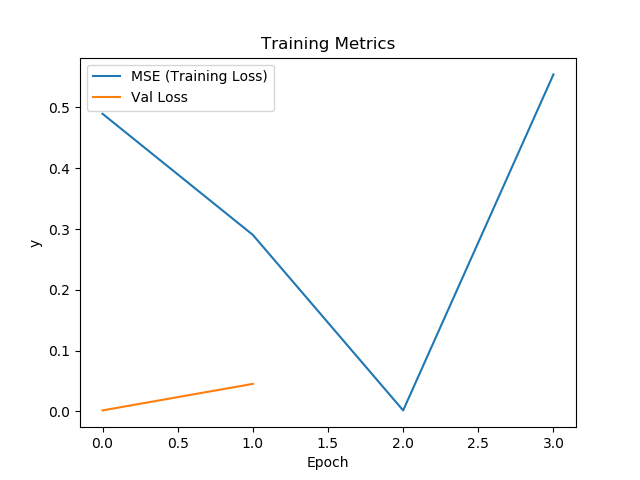
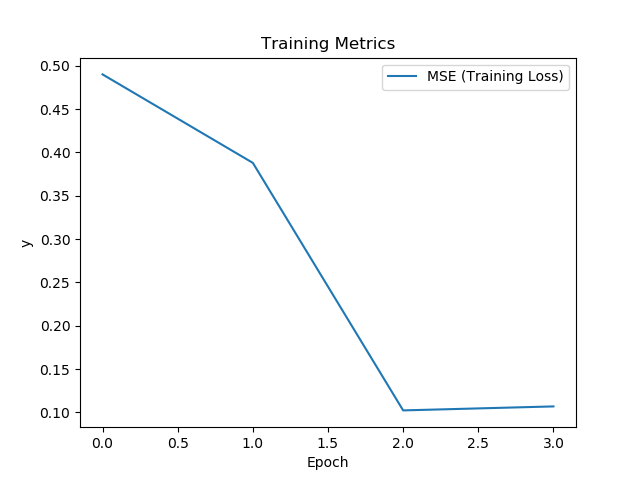
Adds entropic info + probability calculation

diff --git a/entropic_callback.py b/entropic_callback.py
@@ -4,6 +4,9 @@ import scipy
 import scipy.stats as stats
 import math
 import tensorflow as tf
+import matplotlib.pyplot as plt
+import pandas as pd
+import seaborn as sb
 
 class Entropic(tf.keras.callbacks.Callback):
     def __init__(self):
@@ -17,63 +20,83 @@ class Entropic(tf.keras.callbacks.Callback):
         self.layer_information = []
 
     def on_epoch_end(self, epoch, logs={}):
+
+        self.means = []
+        self.stds = []
+        self.layer_probabilities = []
+        self.layer_information = []
+        self.layer_entropies = []
+
         self.generate_pruning_stats()
-        self.probability_of_weights()
-        self.calculate_information()
+
+        self.calculate_probability_and_information_values()
+        self.calculate_weight_entropy()
+            
+        # ROUGH VALUES.
+        # prob_values = []
+        # info_values = []
+        # for prob_dens in freq:
+        #     prob = np.trapz([prob_dens, prob_dens + 0.1], dx=0.01)
+        #     info = - np.log(prob)
+        #     prob_values.append(prob)
+        #     info_values.append(info)
+        
+        # plt.clf()
+        # plt.figure(1)
+        # plt.plot(self.layer_probabilities[5])
+        # plt.figure(2)
+        # plt.plot(self.layer_information[5])
+        # plt.plot([0, 500], [- self.layer_entropies[5] * 1.1, - self.layer_entropies[5] * 1.1])
+        # plt.show()
+
+    def get_probability_distribution(self, weights, index):
+        distribution_values = np.random.normal(self.means[index], self.stds[index], np.size(weights))
+        _, bins, _ = plt.hist(distribution_values, int(np.size(weights) / 20), density=True)
+        return 1 / (self.stds[index] * np.sqrt(2 * np.pi)) * np.exp( - (bins - self.means[index]) ** 2 / (2 * self.stds[index] ** 2))
 
     def generate_pruning_stats(self):
         for layer in self.model.layers:
             weights = layer.get_weights()
             if np.shape(weights)[0] != 0:
 
-                self.means.append(np.nanmean(weights[0]))
-                self.stds.append(np.nanstd(weights[0]))
+                self.means.append(np.mean(weights[0]))
+                self.stds.append(np.std(weights[0]))
 
             else:
                 self.means.append(0)
                 self.stds.append(0)
 
-    def probability(self, input_value, index):
-        return np.power((math.exp(1) / (np.sqrt(2 * math.pi * np.power(self.stds[index], 2)))), (-np.power(input_value - self.means[index], 2) / (2 * np.power(self.stds[index], 2))))
-
-    def probability_of_weights(self):
-        index = 0 
-        for layer in self.model.layers:
-
+    def calculate_probability_and_information_values(self):
+        index = 0
+        for layer in self.model.layers[:6]:
             weights = layer.get_weights()
             if np.shape(weights)[0] != 0:
-                probability = self.probability(weights[0], index)
-                self.layer_probabilities.append(probability)
+                probability_distribution = self.get_probability_distribution(weights[0], index)
+                
+                probability_values = []
+                information_values = []
+                for density in probability_distribution:
+                    probability = np.trapz([density, density + 0.1], dx=0.01)
+                    probability_values.append(probability)
+                    information_value = - np.log10(probability)
+                    information_values.append(information_value)
+
+                self.layer_probabilities.append(probability_values)
+                self.layer_information.append(information_values)
             else:
-                self.layer_probabilities.append(-1)
+                self.layer_probabilities.append(0)
+                self.layer_information.append(0)
             index += 1
 
-            print(self.layer_probabilities)
 
     def calculate_weight_entropy(self):
         index = 0
         for layer in self.model.layers:
             weights = layer.get_weights()
-
             if np.shape(weights)[0] != 0:
-                entropies = np.log(self.stds[index] * np.sqrt(2 * math.pi * math.exp(1)))
-                self.layer_entropies.append(entropies)
+                entropies = np.log(self.stds[index] * np.sqrt(2 * math.pi * np.exp(1)))
             else:
-                self.layer_entropies.append(0)
+                entropies = 0
+            self.layer_entropies.append(entropies)
+
             index += 1
-
-    def calculate_information(self):
-        index = 0
-        for layer in self.model.layers:
-            weights = layer.get_weights()
-
-            # if np.shape(weights)[0] != 0:
-            #     # print(np.shape(weights[0]))
-            #     # print(self.layer_probabilities[0])
-            #         # for weight in weights[0][0]:
-            #         #     # y_1 = self.probability(weight)
-            #         #     # y_2 = self.probability(weight + 0.00001)
-
-            # else:
-            #     self.layer_entropies.append(0)
-            # index += 1        

diff --git a/seq2point_train.py b/seq2point_train.py
@@ -42,7 +42,6 @@ def train_model(APPLIANCE, PRUNING_ALGORITHM, BATCH_SIZE, CROP):
                                         batch_size=BATCH_SIZE, 
                                         crop=CROP, shuffle=True, 
                                         offset=WINDOW_OFFSET, 
-                                        header=0, 
                                         ram_threshold=5*10**5)
 
     # Generator function to produce batches of validation data.
@@ -51,7 +50,6 @@ def train_model(APPLIANCE, PRUNING_ALGORITHM, BATCH_SIZE, CROP):
                                             batch_size=BATCH_SIZE, 
                                             crop=CROP, shuffle=True, 
                                             offset=WINDOW_OFFSET, 
-                                            header=0, 
                                             ram_threshold=5*10**5)
 
     def default_train(model, early_stopping, steps_per_training_epoch):
@@ -70,14 +68,16 @@ def train_model(APPLIANCE, PRUNING_ALGORITHM, BATCH_SIZE, CROP):
 
         """
 
+        entropic = Entropic()
+
         training_history = model.fit_generator(TRAINING_CHUNKER.load_dataset(),
             steps_per_epoch=steps_per_training_epoch,
-            epochs=10,
+            epochs=15,
             verbose=1,
-            validation_data = VALIDATION_CHUNKER.load_dataset(),
-            validation_steps=10,
-            validation_freq=2,
-            callbacks=[early_stopping])
+            # validation_data = VALIDATION_CHUNKER.load_dataset(),
+            # validation_steps=0,
+            # validation_freq=0,
+            callbacks=[early_stopping, entropic])
         return training_history
 
     def tfmot_pruning(model, early_stopping, steps_per_training_epoch):
@@ -155,7 +155,7 @@ def train_model(APPLIANCE, PRUNING_ALGORITHM, BATCH_SIZE, CROP):
     model = create_model()
 
     model.compile(optimizer=tf.keras.optimizers.Adam(learning_rate=0.001, beta_1=0.9, beta_2=0.999), loss="mse", metrics=["mse", "msle", "mae"]) 
-    early_stopping = tf.keras.callbacks.EarlyStopping(monitor="val_loss", min_delta=0, patience=0, verbose=1, mode="auto")
+    early_stopping = tf.keras.callbacks.EarlyStopping(monitor="loss", min_delta=0, patience=0, verbose=1, mode="auto")
 
     if PRUNING_ALGORITHM == "default":
         training_history = default_train(model, early_stopping, steps_per_training_epoch)
@@ -168,7 +168,7 @@ def train_model(APPLIANCE, PRUNING_ALGORITHM, BATCH_SIZE, CROP):
 
     # Plot the monitored metrics and save.
     plt.plot(training_history.history["loss"], label="MSE (Training Loss)")
-    plt.plot(training_history.history["val_loss"], label="Val Loss")
+    #plt.plot(training_history.history["val_loss"], label="Val Loss")
     plt.title('Training Metrics')
     plt.ylabel('y')
     plt.xlabel('Epoch')
